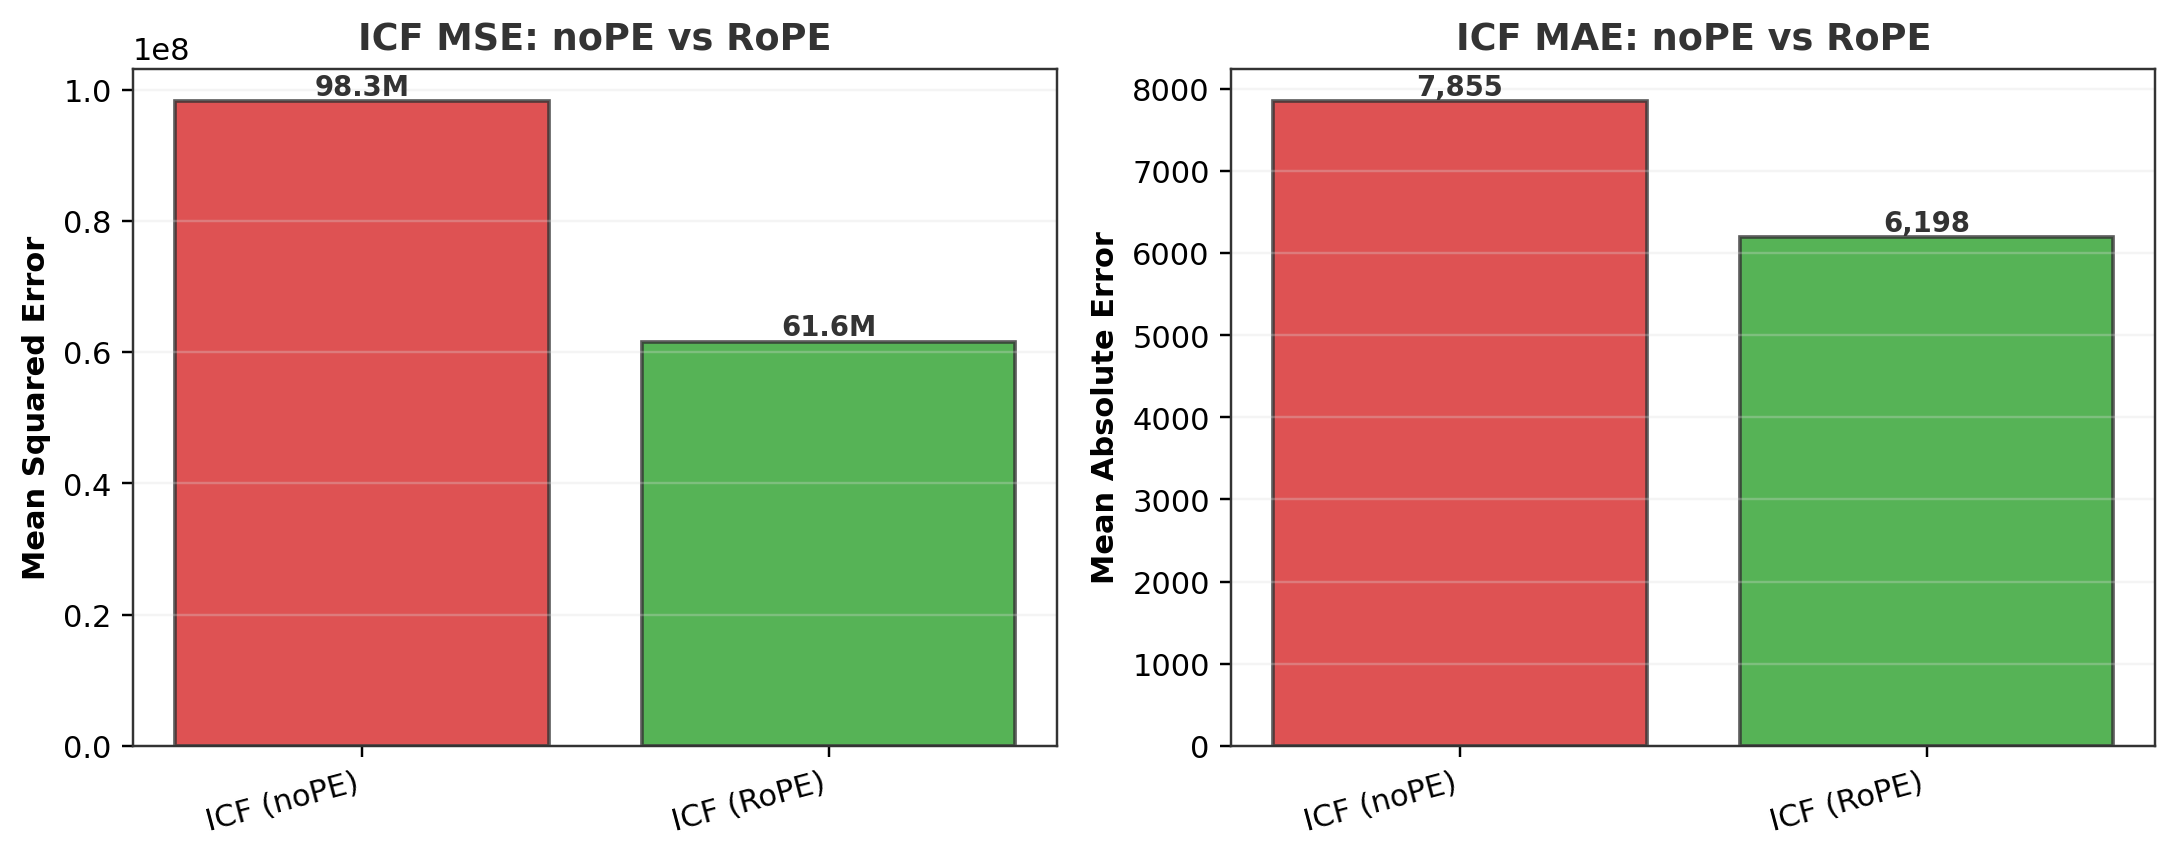
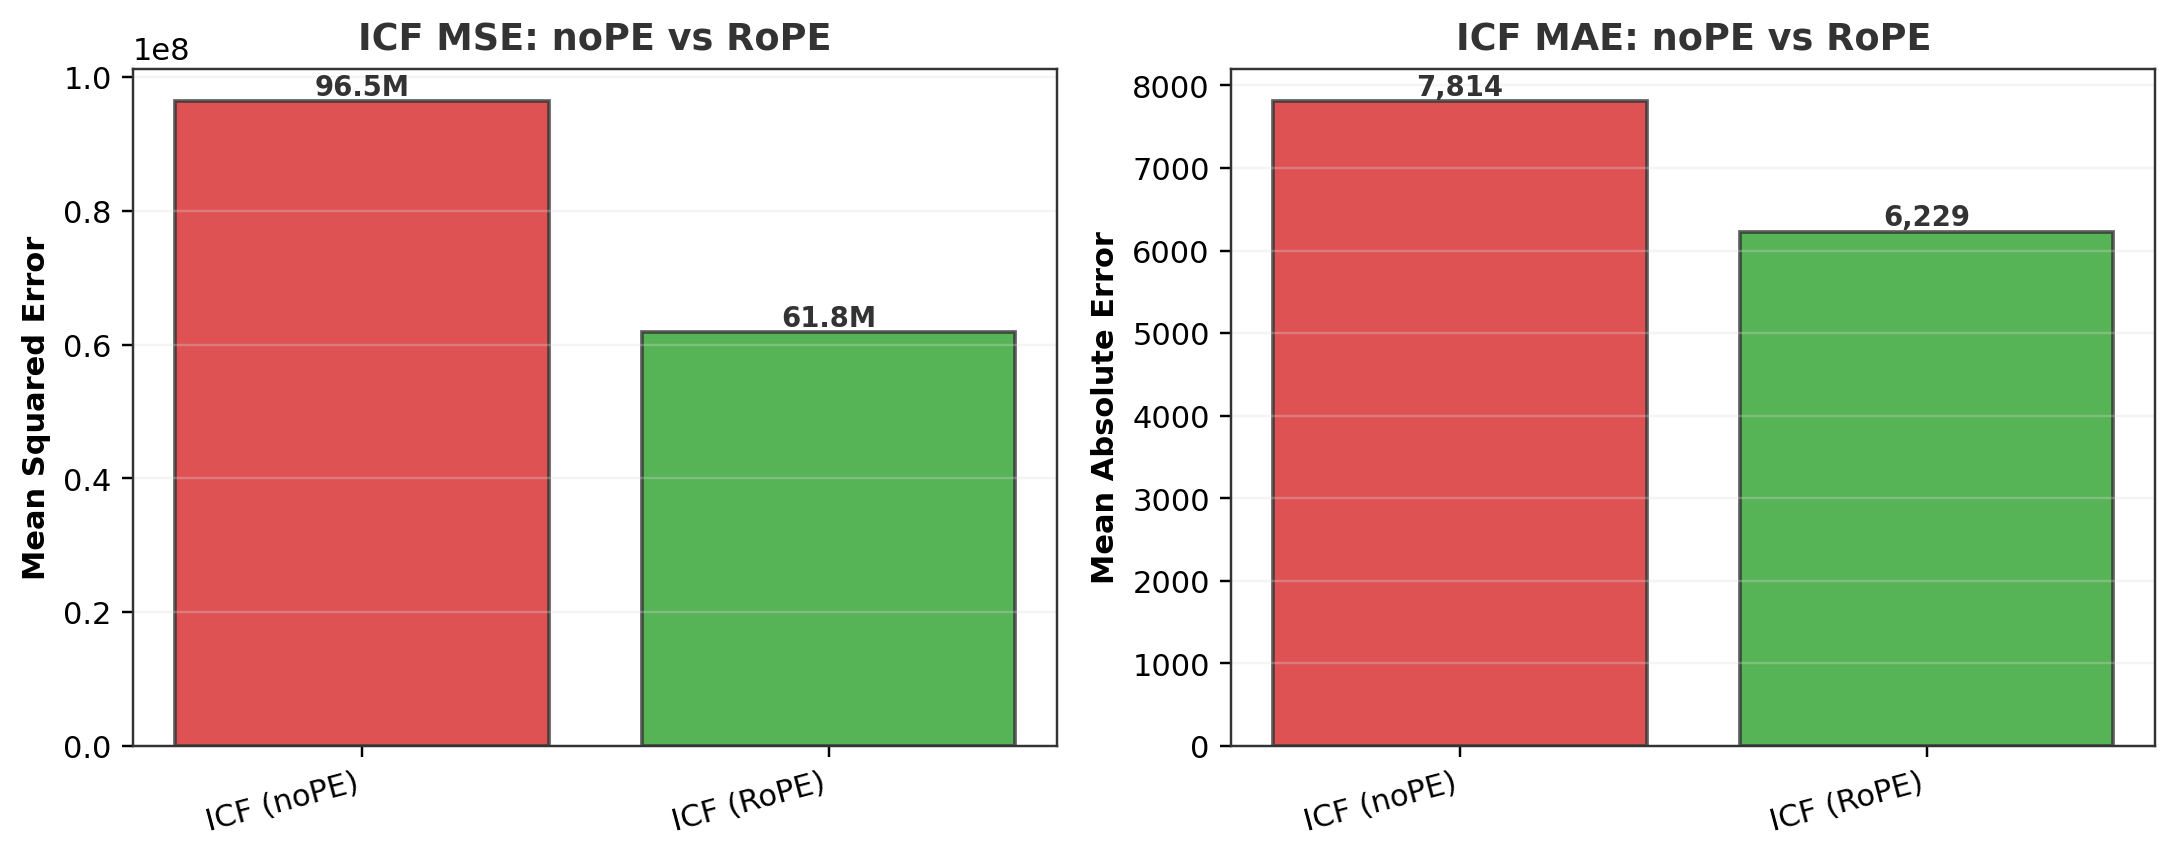
refactor: Update RoPE ablation benchmark to select optimal window for comparison
Modified the plot_comparison function to choose the window with the largest ΔMSE between noPE and RoPE, enhancing the accuracy of visualizations. Updated titles in the plots to reflect the selected window index. Adjusted results in JSON format to reflect new MSE and MAE values, showing a slight decrease in improvement percentages.

diff --git a/benchmark/rope_ablation.py b/benchmark/rope_ablation.py
@@ -221,9 +221,16 @@ def plot_comparison(data_nope, data_rope, out_dir):
     plt.close()
     print(f"  Chart: {path2}")
     
-    mid_idx = len(data_nope["windows"]) // 2
-    w_nope = data_nope["windows"][mid_idx]
-    w_rope = data_rope["windows"][mid_idx]
+    # Pick the window where RoPE improves most over noPE (largest ΔMSE). Using the median
+    # window alone can show RoPE worse on that slice and contradict the aggregate plot.
+    n_win = min(len(data_nope["windows"]), len(data_rope["windows"]))
+    deltas = [
+        data_nope["windows"][i]["mse"] - data_rope["windows"][i]["mse"]
+        for i in range(n_win)
+    ]
+    plot_idx = int(np.argmax(deltas))
+    w_nope = data_nope["windows"][plot_idx]
+    w_rope = data_rope["windows"][plot_idx]
     
     fig, axes2 = plt.subplots(1, 2, figsize=(12, 4), sharey=True)
     
@@ -243,7 +250,10 @@ def plot_comparison(data_nope, data_rope, out_dir):
     axes2[0].fill_between(pred_x, actual.min(), actual.max(), alpha=0.05, color='#ff7f0e')
     axes2[0].set_xlabel('Time Step', fontweight='bold')
     axes2[0].set_ylabel('BTC-USD Close Price', fontweight='bold')
-    axes2[0].set_title(f'ICF with noPE (MSE={w_nope["mse"]:,.0f})', fontweight='bold')
+    axes2[0].set_title(
+        f'ICF with noPE — window {plot_idx} (MSE={w_nope["mse"]:,.0f})',
+        fontweight='bold',
+    )
     axes2[0].legend(loc='best', frameon=True, edgecolor='#333')
     axes2[0].grid(alpha=0.3)
     
@@ -254,10 +264,20 @@ def plot_comparison(data_nope, data_rope, out_dir):
     axes2[1].axvline(0, color='#666', linestyle=':', linewidth=1)
     axes2[1].fill_between(pred_x, actual.min(), actual.max(), alpha=0.05, color='#ff7f0e')
     axes2[1].set_xlabel('Time Step', fontweight='bold')
-    axes2[1].set_title(f'ICF with RoPE (MSE={w_rope["mse"]:,.0f})', fontweight='bold')
+    axes2[1].set_title(
+        f'ICF with RoPE — window {plot_idx} (MSE={w_rope["mse"]:,.0f})',
+        fontweight='bold',
+    )
     axes2[1].legend(loc='best', frameon=True, edgecolor='#333')
     axes2[1].grid(alpha=0.3)
-    
+
+    fig2 = axes2[0].figure
+    fig2.suptitle(
+        r"Same calendar window: index chosen for largest $\Delta\mathrm{MSE}$"
+        r" (noPE $-$ RoPE; illustrates where RoPE helps most)",
+        fontsize=9,
+        y=1.03,
+    )
     plt.tight_layout()
     path3 = os.path.join(out_dir, "rope_ablation_forecast.png")
     plt.savefig(path3, dpi=220, bbox_inches='tight')
